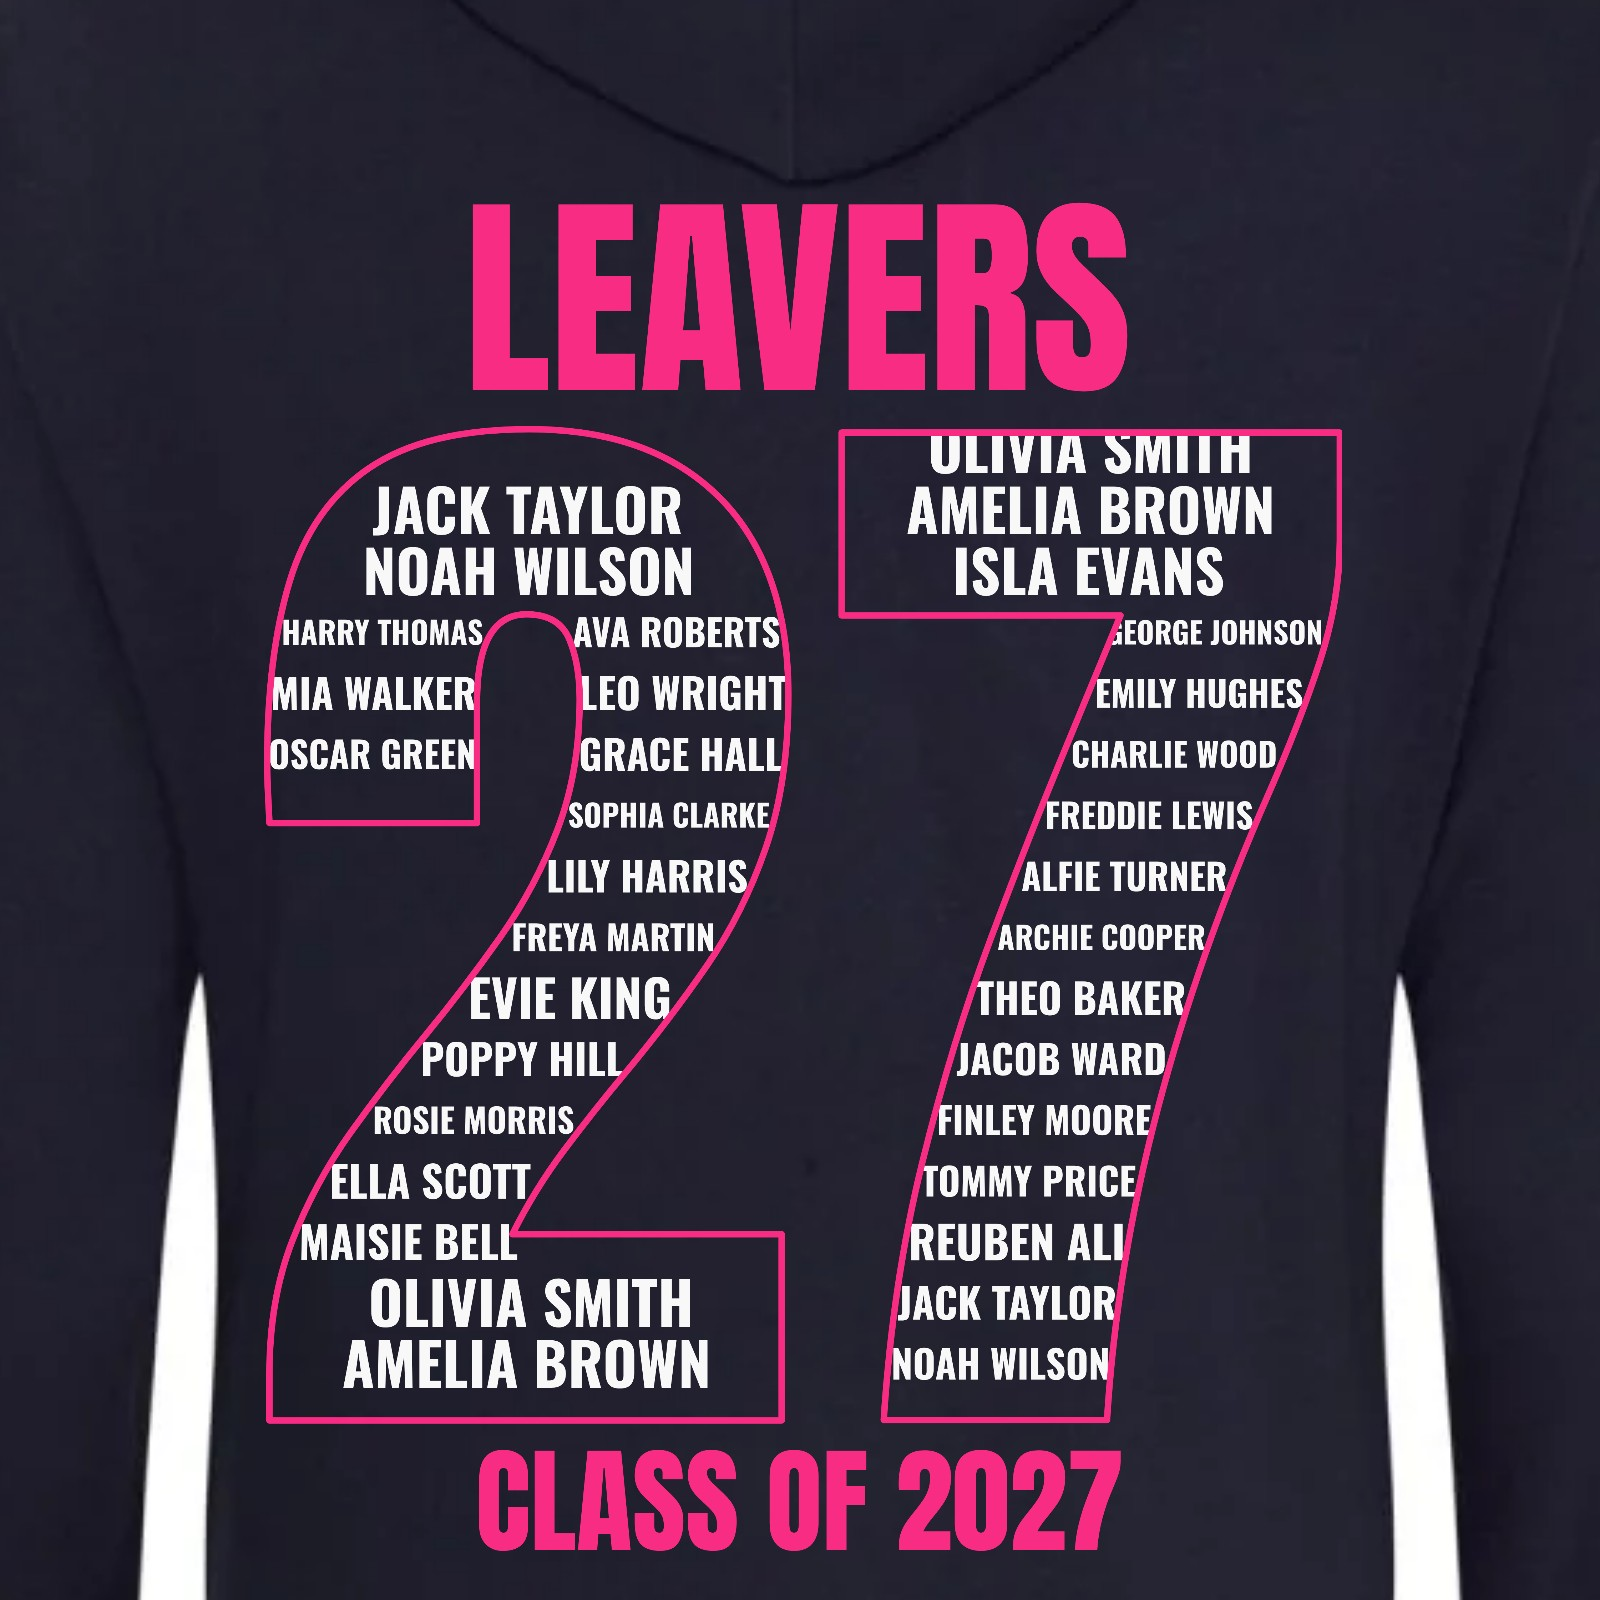
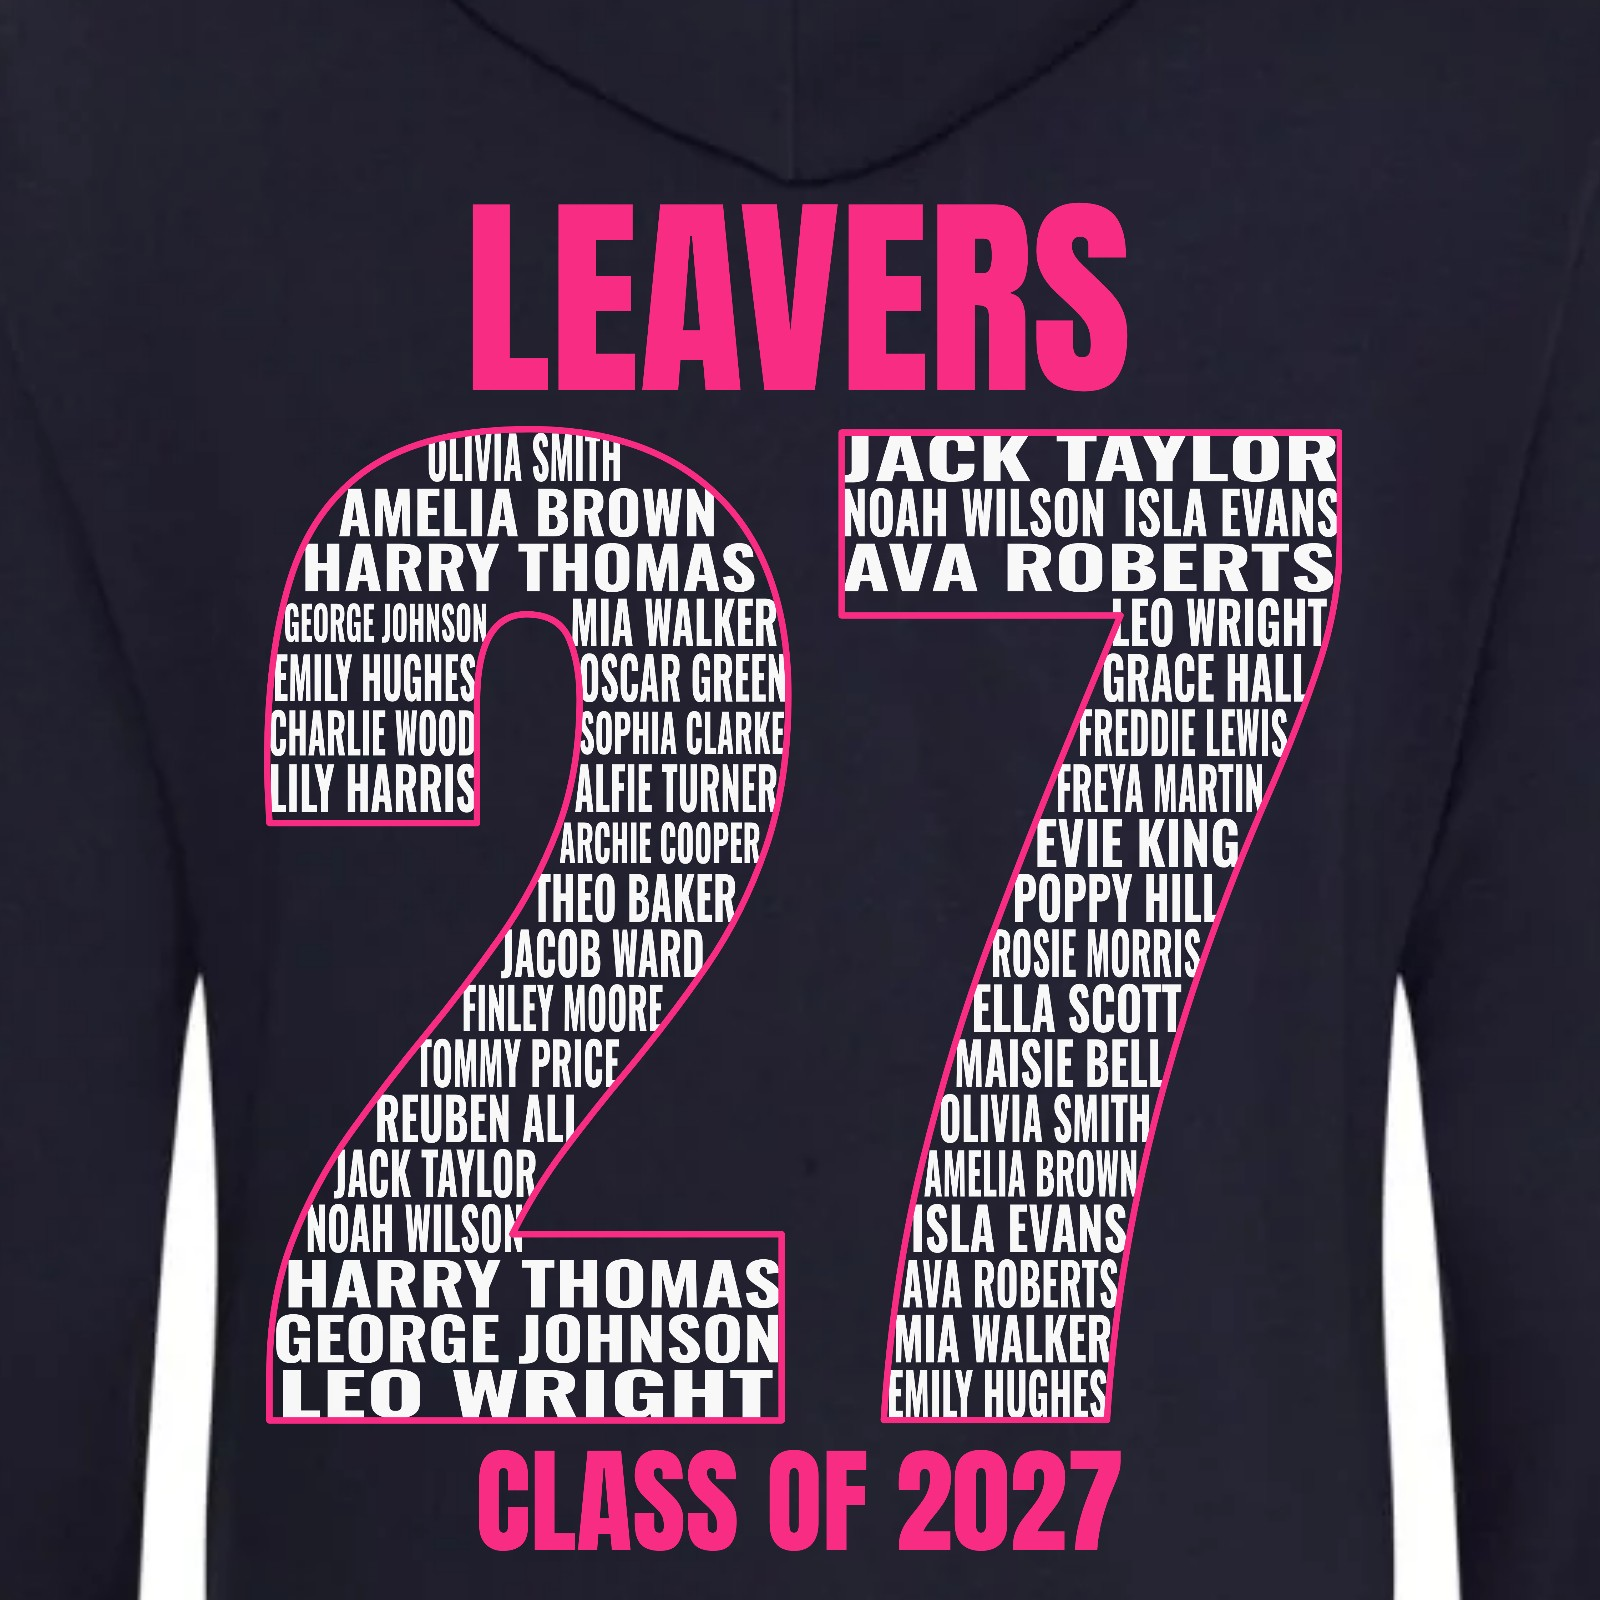
Names always fill the whole number/heart/star with no gaps
Rows are fitted to the shape's full height, every row is stretched edge
to edge, thin strokes get a condensed name, and names repeat once all
have appeared. The repeat tick box is gone (fill is now the rule).
Product images re-rendered.

Claude-Session: https://claude.ai/code/session_01MSgM9i85HvwumTiwg3Y5AK

Changed region(s): [[0.1562, 0.25, 0.5, 0.9062], [0.5312, 0.25, 0.8438, 0.9062]]

diff --git a/leavers-designer/theme/assets/leavers-engine.js b/leavers-designer/theme/assets/leavers-engine.js
@@ -565,30 +565,50 @@
     return out;
   }
 
+  // Names fill the shape with no gaps: each row is packed, then stretched edge to edge when drawn.
+  var FILL = { lead: 1.16, squeeze: 0.8, maxStretch: 1.7, minK: 0.3 };
+  // Top and bottom of the filled part of the mask, so rows can be fitted to the shape exactly.
+  function maskBounds(mask) {
+    var top = -1, bottom = -1;
+    for (var r = 0; r < mask.h; r++) {
+      for (var c = 0, base = r * mask.w * 4; c < mask.w; c++) {
+        if (mask.data[base + c * 4 + 3] > 127) { if (top < 0) top = r; bottom = r; break; }
+      }
+    }
+    if (top < 0) return { y: mask.box.y, h: mask.box.h };
+    return { y: mask.box.y + top / mask.scale, h: (bottom - top + 1) / mask.scale };
+  }
   function packShape(names, font, mask, box, size, repeat) {
     var n = names.length;
-    var lineH = size * capHeight(font) * 1.28;
-    var gap = size * 0.3;
+    var bounds = mask.bounds || (mask.bounds = maskBounds(mask));
+    // Whole rows from the top of the shape to the bottom: no strip left empty.
+    var nRows = Math.max(1, Math.round(bounds.h / (size * capHeight(font) * FILL.lead)));
+    var lineH = bounds.h / nRows;
+    var gap = size * 0.28;
     var widths = names.map(function (s) { return measure(font, s).w * size / 100; });
     var rows = [], i = 0;
-    for (var y = box.y; y + lineH <= box.y + box.h + 0.001; y += lineH) {
+    for (var row = 0; row < nRows; row++) {
+      var y = bounds.y + row * lineH;
       if (!repeat && i >= n) break;
-      var spans = intersectSpans(spansAt(mask, y + lineH * 0.22), spansAt(mask, y + lineH * 0.78));
+      var spans = intersectSpans(spansAt(mask, y + lineH * 0.2), spansAt(mask, y + lineH * 0.8));
       for (var s = 0; s < spans.length; s++) {
-        var x0 = spans[s][0], x1 = spans[s][1];
-        if (x1 - x0 < size * 1.2) continue;
+        if (!repeat && i >= n) break;
+        var x0 = spans[s][0], x1 = spans[s][1], span = x1 - x0;
+        if (span < size * 0.5) continue;
         var items = [], used = 0, guard = 0;
         while (guard++ < 500) {
           if (!repeat && i >= n) break;
           var w = widths[i % n];
           var need = items.length ? used + gap + w : w;
-          if (need > x1 - x0) break;
+          // Names may be squeezed a little to fit one more in, so rows end flush.
+          if (need * FILL.squeeze > span) break;
           items.push({ idx: i % n, k: 1 }); used = need; i++;
         }
-        // Narrow strokes: shrink one name to fit rather than leave the stroke empty.
-        if (!items.length && (repeat || i < n)) {
-          var k = (x1 - x0) / widths[i % n];
-          if (k >= 0.45) { items.push({ idx: i % n, k: k }); used = x1 - x0; i++; }
+        // Narrow strokes: a smaller, condensed name rather than an empty stroke.
+        if (!items.length) {
+          var wn = widths[i % n];
+          var k = Math.min(1, span / (wn * 0.6));
+          if (k >= FILL.minK) { items.push({ idx: i % n, k: k }); used = wn * k; i++; }
         }
         if (items.length) rows.push({ y: y, x0: x0, x1: x1, items: items, used: used });
       }
@@ -596,7 +616,7 @@
     return { rows: rows, all: i >= n, size: size, lineH: lineH, gap: gap, widths: widths };
   }
 
-  function layoutShape(key, names, font, shape, box, repeat) {
+  function layoutShape(key, names, font, shape, box) {
     return remember(layoutCache, key, function () {
       var mask = shapeMask(shape, box);
       if (!names.length) return { rows: [], size: 0 };
@@ -614,29 +634,36 @@
         var narrow = widths[Math.floor(widths.length * 0.3)];
         lo = Math.min(lo, narrow * 1.5 / nameW[Math.floor(nameW.length / 2)] * 100);
       }
-      return packShape(names, font, mask, box, Math.max(lo, 2), repeat);
+      // Every name appears at least once; the rest of the shape is filled by repeating them.
+      return packShape(names, font, mask, box, Math.max(lo, 2), true);
     });
   }
 
-  function drawShapeNames(ctx, lay, names, font, colours, repeat) {
+  function drawShapeNames(ctx, lay, names, font, colours) {
     if (!lay.rows.length) return;
-    var size = lay.size, cap = capHeight(font) * size;
-    ctx.font = fontSpec(font, size);
+    var size = lay.size, cap = capHeight(font);
     ctx.textAlign = 'left';
     ctx.textBaseline = 'alphabetic';
     var count = 0;
     lay.rows.forEach(function (r) {
-      var free = r.x1 - r.x0 - r.used;
-      var full = repeat || free < size * 3;
-      var gap = lay.gap + (full && r.items.length > 1 ? free / (r.items.length - 1) : 0);
-      var x = full && r.items.length > 1 ? r.x0 : r.x0 + free / 2;
-      var y = r.y + lay.lineH / 2 + cap / 2;
+      var span = r.x1 - r.x0, n = r.items.length;
+      var natural = r.items.reduce(function (a, it) { return a + lay.widths[it.idx] * it.k; }, 0);
+      var gaps = lay.gap * (n - 1);
+      // Stretch (or squeeze) the names so the row runs the full width of the stroke.
+      var sx = Math.max(0.35, Math.min(FILL.maxStretch, (span - gaps) / natural));
+      var extra = span - gaps - natural * sx;
+      var gap = lay.gap + (n > 1 && extra > 0 ? extra / (n - 1) : 0);
+      var x = r.x0 + (n === 1 && extra > 0 ? extra / 2 : 0);
       r.items.forEach(function (it) {
+        var sz = size * it.k;
+        ctx.font = fontSpec(font, sz);
         ctx.fillStyle = colours[count++ % colours.length];
-        if (it.k !== 1) ctx.font = fontSpec(font, size * it.k);
-        ctx.fillText(names[it.idx], x, it.k !== 1 ? r.y + lay.lineH / 2 + cap * it.k / 2 : y);
-        if (it.k !== 1) ctx.font = fontSpec(font, size);
-        x += lay.widths[it.idx] * it.k + gap;
+        ctx.save();
+        ctx.translate(x, r.y + lay.lineH / 2 + cap * sz / 2);
+        ctx.scale(sx, 1);
+        ctx.fillText(names[it.idx], 0, 0);
+        ctx.restore();
+        x += lay.widths[it.idx] * it.k * sx + gap;
       });
     });
   }
@@ -786,8 +813,8 @@
         var sbox = { x: 0, y: Y(0.16), w: REF, h: box.h * 0.73 };
         var spath = b.template === 'heart' ? heartPath(sbox) : starPath(sbox);
         var shape = function (x) { x.fill(spath); };
-        var lay = layoutShape(keyBase, names, b.nameFont, shape, sbox, b.repeat);
-        clipped(ctx, function (x) { drawShapeNames(x, lay, names, b.nameFont, colours, b.repeat); }, shape);
+        var lay = layoutShape(keyBase, names, b.nameFont, shape, sbox);
+        clipped(ctx, function (x) { drawShapeNames(x, lay, names, b.nameFont, colours); }, shape);
         if (b.outline) { ctx.save(); ctx.strokeStyle = accent; ctx.lineWidth = 7; ctx.lineJoin = 'round'; ctx.stroke(spath); ctx.restore(); }
         drawFit(ctx, b.school, disp, { x: 60, y: Y(0.92), w: REF - 120, h: box.h * 0.07 }, accent);
         break;
@@ -848,8 +875,8 @@
         drawFit(ctx, b.title, disp, { x: 0, y: Y(0), w: REF, h: box.h * 0.14 }, accent);
         var ybox = { x: 0, y: Y(0.16), w: REF, h: box.h * 0.74 };
         var yshape = yearShape(d, ybox);
-        var ylay = layoutShape(keyBase, names, b.nameFont, yshape, ybox, b.repeat);
-        clipped(ctx, function (x) { drawShapeNames(x, ylay, names, b.nameFont, colours, b.repeat); }, yshape);
+        var ylay = layoutShape(keyBase, names, b.nameFont, yshape, ybox);
+        clipped(ctx, function (x) { drawShapeNames(x, ylay, names, b.nameFont, colours); }, yshape);
         if (b.outline) {
           drawFit(ctx, b.year, disp, ybox, null, { stroke: accent, strokeWidth: 3, noShrink: true });
         }

diff --git a/leavers-designer/theme/assets/leavers-designer.js b/leavers-designer/theme/assets/leavers-designer.js
@@ -155,7 +155,6 @@
         '    </div>' +
         '    </div>' +
         '    <div class="ld-row ld-row--wrap">' +
-        '      <label class="ld-check" data-repeat-opt><input type="checkbox" data-bind="back.repeat"> Repeat names to fill the shape</label>' +
         '      <label class="ld-check"><input type="checkbox" data-bind="back.twoTone"> Two-tone names</label>' +
         '      <label class="ld-check"><input type="checkbox" data-bind="back.outline"> Outline</label>' +
         '    </div>' +
@@ -572,7 +571,6 @@
       $('[data-name-count]').textContent = '(' + E.cleanNames(d).length + ')';
       $('[data-names-field]').hidden = !t.names;
       $('[data-names-tools]').hidden = !t.names;
-      $('[data-repeat-opt]').hidden = SHAPE_TEMPLATES.indexOf(d.back.template) < 0;
 
       $$('[data-bind]').forEach(function (el) {
         if (el === document.activeElement) return;

diff --git a/.claude/skills/foxy-leavers-designer/SKILL.md b/.claude/skills/foxy-leavers-designer/SKILL.md
@@ -78,6 +78,14 @@ Nothing is saved as a file automatically. The design itself travels with the ord
 
 ## Gotchas
 
+- **Rule: names always fill the whole shape (number, heart, star) with no gaps.**
+  - `layoutShape` sizes the names so that each one appears at least once, then repeats names to fill the rest.
+  - `packShape` fits whole rows from the top of the shape to the bottom.
+  - `drawShapeNames` stretches each row edge to edge.
+  - Thin strokes get a smaller, condensed name.
+  - Never reintroduce empty rows, centred short rows or a "no repeat" mode.
+- The default year is 27 (front line `2027`).
+
 - `.ld [hidden]` uses `display: none !important`. Keep it, or hidden fields reappear.
 - Re-render on the `leavers:photo` event and on fonts `loadingdone`, or the first paint shows missing photos or fonts.
 - The default colour should be dark (`defaultColour`), because the default ink is white.
